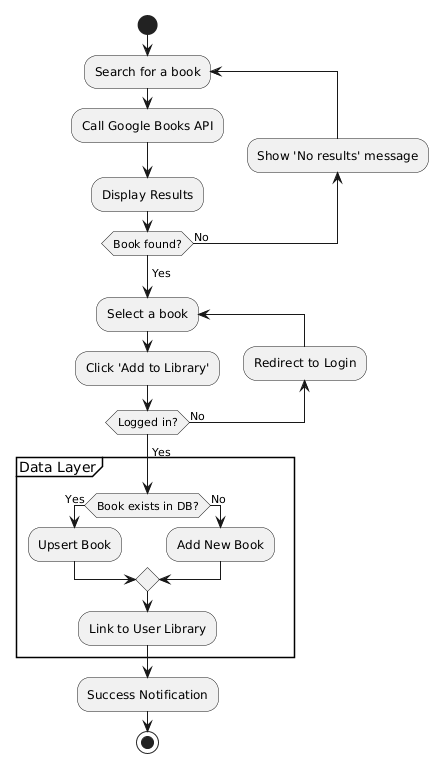
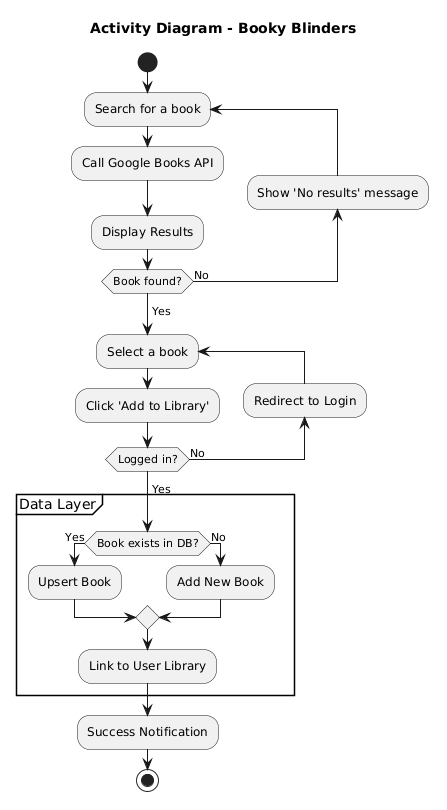
fix: fix activity diagram with correct UML language

diff --git a/conception/ActivityDiagram.md b/conception/ActivityDiagram.md
@@ -1,7 +1,10 @@
 # ACTIVITY DIAGRAM
 
 
-```@startuml
+```
+@startuml
+title Activity Diagram - Booky Blinders
+
 start
 
 repeat :Search for a book;
